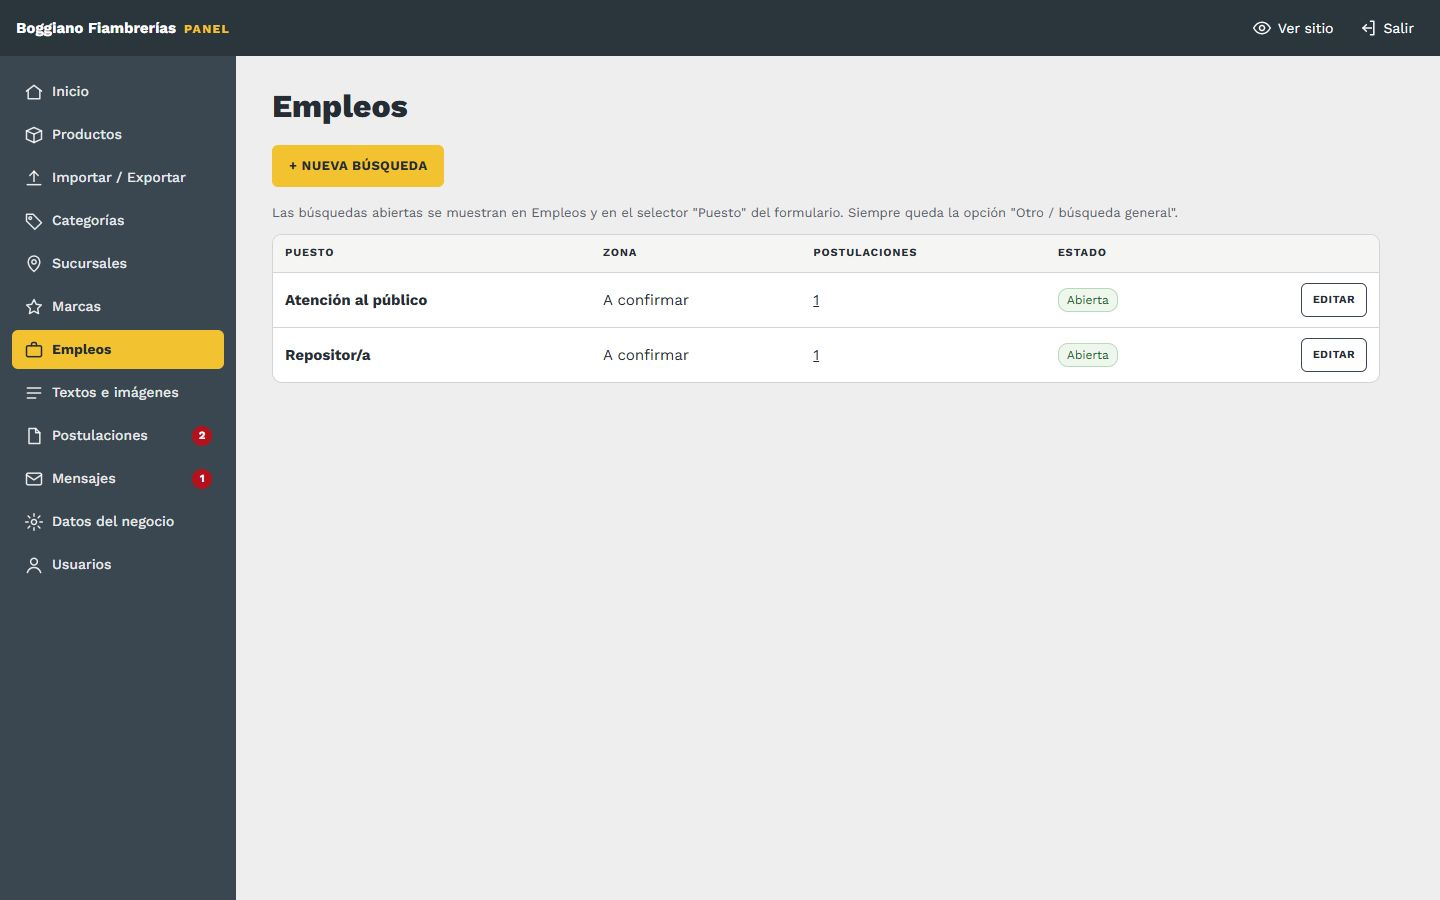
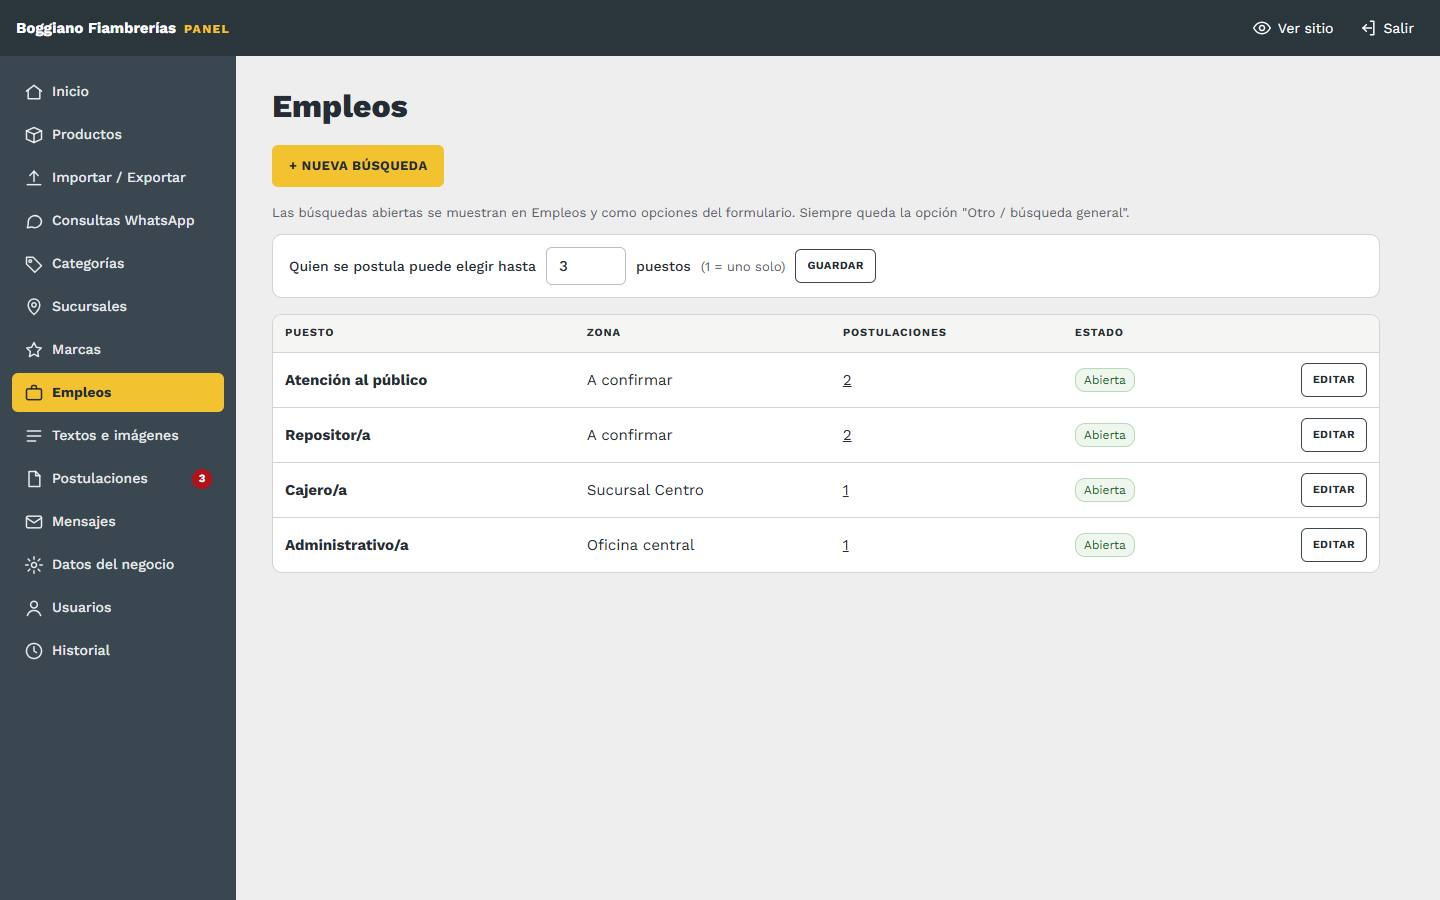
Guía: postularse a varios puestos y el tope en Empleos

diff --git a/guia/08-empleos-y-postulaciones.md b/guia/08-empleos-y-postulaciones.md
@@ -18,12 +18,22 @@
 
 ![Editar búsqueda](../img/empleo-editar.jpg)
 
-**Qué cambia en el sitio:** en la página **Empleos** aparece una tarjeta por cada búsqueda abierta, con su botón **Postularme**. El puesto también se suma al selector "Puesto" del formulario. Siempre queda además la opción **"Otro / búsqueda general"**, para quien quiera dejar el CV igual.
+**Qué cambia en el sitio:** en la página **Empleos** aparece una tarjeta por cada búsqueda abierta, con su botón **Postularme**. El puesto también aparece como opción en el formulario. Siempre queda además la opción **"Otro / búsqueda general"**, para quien quiera dejar el CV igual.
 
 ![Búsquedas en el sitio](../img/sitio-empleos.jpg)
 
 - **Sin búsquedas abiertas,** la página dice "No hay búsquedas abiertas" e invita a dejar el CV igual.
 - **Cerrar o borrar una búsqueda** no borra las postulaciones que ya llegaron.
+
+### Postularse a varios puestos
+
+Quien se postula puede marcar **varios puestos a la vez**: por ejemplo, Cajero/a, Atención al público y Repositor/a. Así alguien con experiencia en más de un área no tiene que mandar el CV varias veces.
+
+![Puestos en el formulario](../img/sitio-empleos-puestos.jpg)
+
+- **Cuántos puede marcar:** arriba de la lista de Empleos, en **"Quien se postula puede elegir hasta __ puestos"**. Viene en **3**; va de 1 a 10. Con **1**, elige un solo puesto, como antes.
+- **En el sitio,** el formulario dice "elegí hasta 3" (o el número que pongas). Al llegar al tope, los demás puestos quedan en gris hasta que desmarque alguno.
+- **El botón Postularme** de cada búsqueda deja ese puesto marcado en el formulario.
 
 ## Postulaciones
 
@@ -31,8 +41,8 @@
 
 ![Postulaciones](../img/postulaciones.jpg)
 
-- **Filtrar por puesto:** los botones de arriba.
-- **Ver:** abre el detalle, con nombre, mail, teléfono, puesto, experiencia, fecha y el CV. Al abrirla, se marca como leída.
+- **Filtrar por puesto:** los botones de arriba. Una postulación a varios puestos cuenta en cada uno: la de Cajero/a, Atención al público y Repositor/a aparece en esas tres pestañas. En Empleos, la columna **Postulaciones** cuenta igual.
+- **Ver:** abre el detalle, con nombre, mail, teléfono, puestos elegidos, experiencia, fecha y el CV. Al abrirla, se marca como leída.
 - **CV:** lo descarga directamente.
 - **Marcar como no leída:** para acordarte de volver a verla.
 - **Borrar postulación y CV:** borra los dos. **No se puede deshacer.**

diff --git a/README.md b/README.md
@@ -61,6 +61,7 @@ Hoy el sitio está publicado pero con **datos de ejemplo**. En este orden:
 | Qué sucursal sale destacada en Inicio | Sucursales: la primera visible (orden más bajo) | [06](guia/06-sucursales.md) |
 | Los logos de las marcas | Marcas | [07](guia/07-marcas.md) |
 | Las búsquedas de empleo / ver CV | Empleos · Postulaciones | [08](guia/08-empleos-y-postulaciones.md) |
+| Cuántos puestos puede elegir quien se postula | Empleos (arriba de la lista) | [08](guia/08-empleos-y-postulaciones.md#postularse-a-varios-puestos) |
 | Responder una consulta | Mensajes | [09](guia/09-mensajes.md) |
 | Un texto de cualquier página, los sellos, la etiqueta sobre la foto, el logo, las fotos grandes, la portada con o sin foto | Textos e imágenes | [10](guia/10-textos-e-imagenes.md) |
 | Lo que queda escrito al abrir WhatsApp | Textos e imágenes → WhatsApp | [10](guia/10-textos-e-imagenes.md#mensajes-de-whatsapp) |
